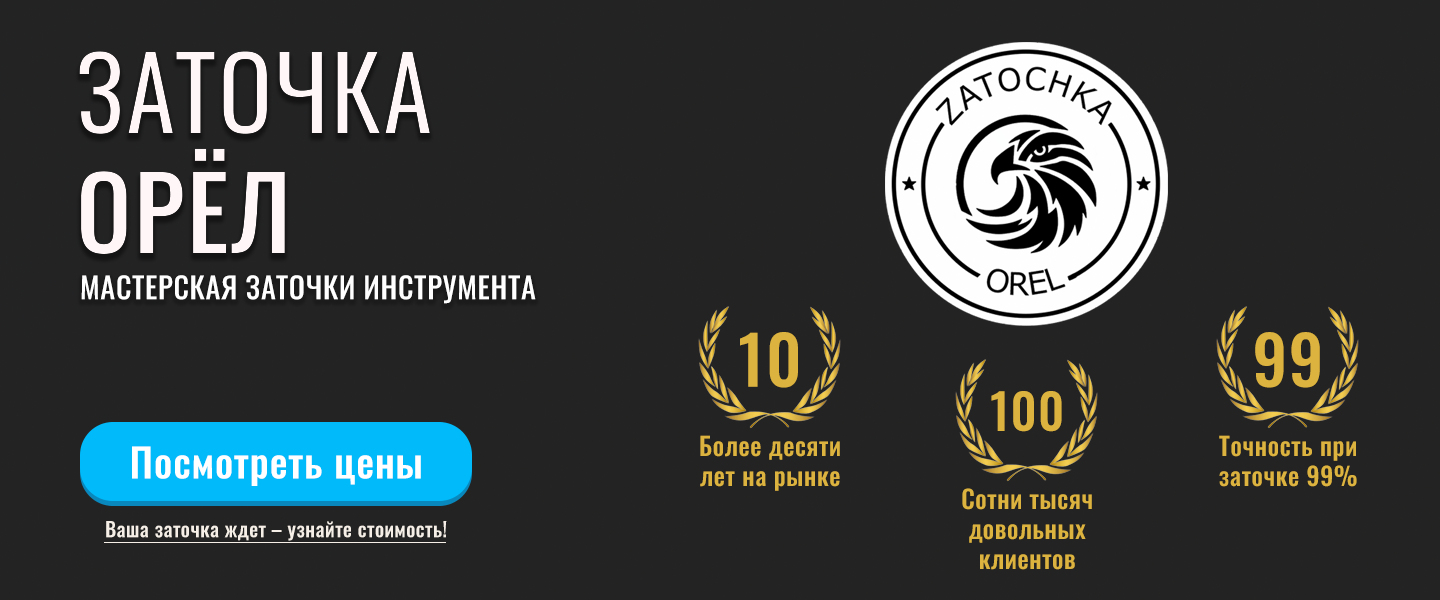
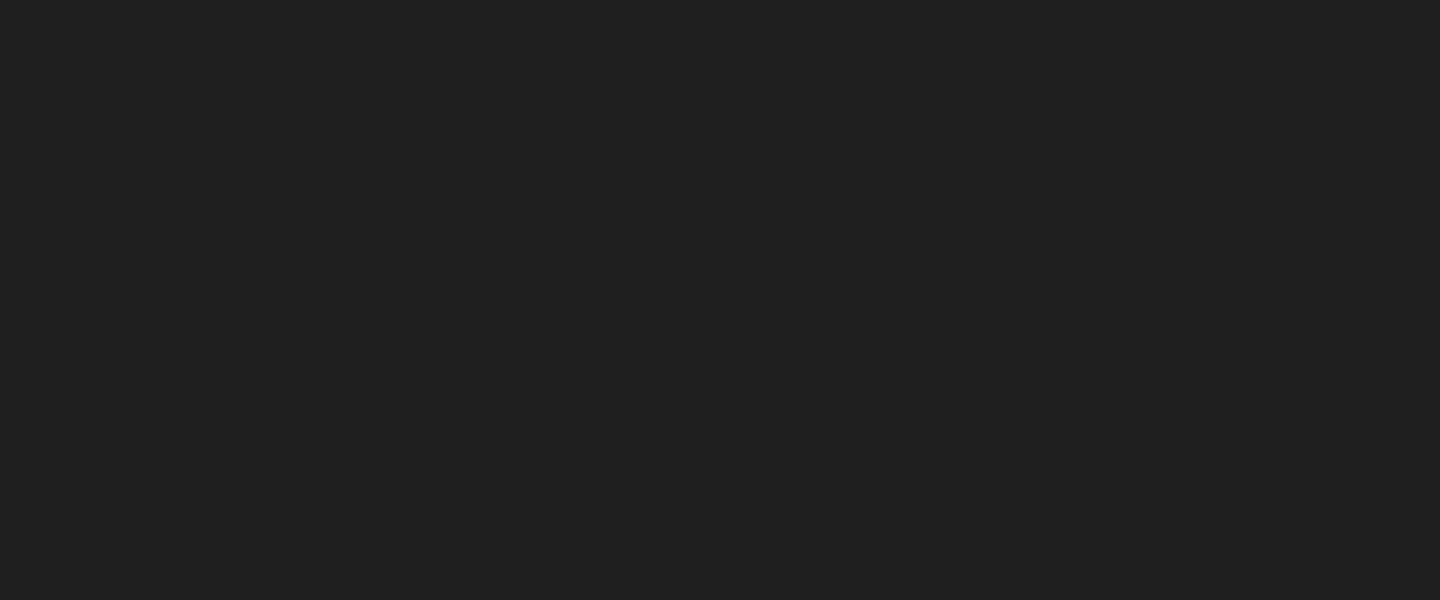
Баннер

diff --git a/pages/index.vue b/pages/index.vue
@@ -8,6 +8,12 @@ const defaultMapEmbedUrl = 'https://yandex.ru/map-widget/v1/org/ostry_kray/96290
 const defaultYandexMapUrl = 'https://yandex.ru/maps/org/ostry_kray/96290816208/'
 const defaultYandexReviewsWidgetUrl = 'https://yandex.ru/maps-reviews-widget/96290816208?comments'
 
+const bannerStats = [
+  { value: '10', label: 'Более десяти\nлет на рынке', raised: true },
+  { value: '10', label: 'Десятки тысяч\nдовольных клиентов', raised: false },
+  { value: '100', label: 'Сотни тысяч\nзаточенных инструментов', raised: true },
+]
+
 const serviceList = [
   'Заточка маникюрного инструмента',
   'Заточка педикюрного инструмента',
@@ -50,27 +56,51 @@ const workingHours = [
 <template>
   <!-- Banner -->
   <section class="relative h-[520px] overflow-hidden">
+    <div class="absolute inset-0 bg-[url('/images/banner.png')] bg-center bg-cover" />
     <div
-      class="absolute inset-0 bg-[url('/images/banner.png')] bg-center bg-cover"
-    />
-    <div
-      class="absolute inset-0 flex flex-col justify-center px-20"
-      style="background: linear-gradient(to right, rgba(0,0,0,0.6) 0%, rgba(0,0,0,0.1) 60%)"
+      class="absolute inset-0 flex items-stretch"
+      style="background: linear-gradient(to right, rgba(0,0,0,0.72) 0%, rgba(0,0,0,0.15) 52%, rgba(0,0,0,0.60) 100%)"
     >
-      <h1 class="text-white text-[60px] font-bold leading-[1.15] max-w-[640px] mb-5">
-        Профессиональная заточка инструмента
-      </h1>
-      <p class="text-white/90 text-[22px] max-w-[520px] mb-8 leading-relaxed">
-        Маникюрный, парикмахерский, грумерский и домашний инструмент
-      </p>
-      <div class="flex gap-4">
-        <NuxtLink to="/services" class="btn-primary text-[22px]">Услуги и цены</NuxtLink>
-        <NuxtLink
-          to="/about"
-          class="inline-block bg-white/15 text-white border-2 border-white/60 rounded-2xl px-9 py-3.5 font-bold text-[22px] no-underline backdrop-blur-sm transition-colors hover:bg-white/25"
-        >
-          О нас
-        </NuxtLink>
+      <!-- Left: text content -->
+      <div class="flex flex-col justify-center pl-20 pr-5">
+        <h1 class="text-white text-[60px] font-bold leading-[1.15] max-w-[640px] mb-5">
+          Профессиональная заточка инструмента
+        </h1>
+        <p class="text-white/90 text-[22px] max-w-[520px] mb-8 leading-relaxed">
+          Маникюрный, парикмахерский, грумерский и домашний инструмент
+        </p>
+        <div class="flex gap-4">
+          <NuxtLink to="/services" class="btn-primary text-[22px]">Услуги и цены</NuxtLink>
+          <NuxtLink
+            to="/about"
+            class="inline-block bg-white/15 text-white border-2 border-white/60 rounded-2xl px-9 py-3.5 font-bold text-[22px] no-underline backdrop-blur-sm transition-colors hover:bg-white/25"
+          >
+            О нас
+          </NuxtLink>
+        </div>
+      </div>
+
+      <!-- Right: logo + stats -->
+      <div class="flex-1 flex flex-col items-center justify-center gap-2 px-6">
+        <img
+          src="/images/logo_footer.png"
+          alt="Острый край"
+          class="w-[300px] h-[300px] object-contain"
+        />
+        <div class="flex items-end gap-8">
+          <div
+            v-for="stat in bannerStats"
+            :key="stat.label"
+            class="flex flex-col items-center text-center gap-1"
+            :class="stat.raised ? 'mb-9' : 'mb-0'"
+          >
+            <div class="relative flex items-center justify-center w-[120px] h-[88px]">
+              <img src="/images/gold.png" alt="" class="absolute inset-0 w-full h-full object-contain" />
+              <span class="relative z-10 text-[34px] font-bold leading-none -mt-2" style="color: #D4AF37; text-shadow: 0 1px 6px rgba(0,0,0,0.5)">{{ stat.value }}</span>
+            </div>
+            <span class="text-[12px] leading-snug whitespace-pre-line font-medium" style="color: #D4AF37">{{ stat.label }}</span>
+          </div>
+        </div>
       </div>
     </div>
   </section>

diff --git a/components/AppFooter.vue b/components/AppFooter.vue
@@ -1,14 +1,14 @@
 <template>
   <footer class="bg-dark text-white font-sans py-8 mt-auto">
-    <div class="max-w-[1440px] mx-auto px-12 grid grid-cols-[200px_1fr_1fr] gap-10 items-start">
+    <div class="max-w-[1440px] mx-auto px-12 grid grid-cols-[230px_1fr_1fr] gap-10 items-start">
       <!-- Logo -->
       <div class="flex flex-col items-center gap-2.5">
         <img src="/images/logo_footer.png" alt="Острый край" class="w-[120px] h-[120px] object-contain" />
-        <span class="text-base text-white text-center">2024 © Заточка Орёл</span>
+        <span class="text-base text-white text-center">2026 © Заточка Острый Край</span>
       </div>
 
       <!-- Contacts + socials -->
-      <div class="flex flex-col gap-3">
+      <div class="max-w-[400px] flex flex-col gap-3">
         <div class="flex flex-col gap-2">
           <a :href="settings?.phone_href || 'tel:[phone redacted]'" class="flex items-center gap-2.5 text-white no-underline text-lg">
             <img src="/images/phone_icon.png" class="w-5 h-4 object-contain invert" alt="" />